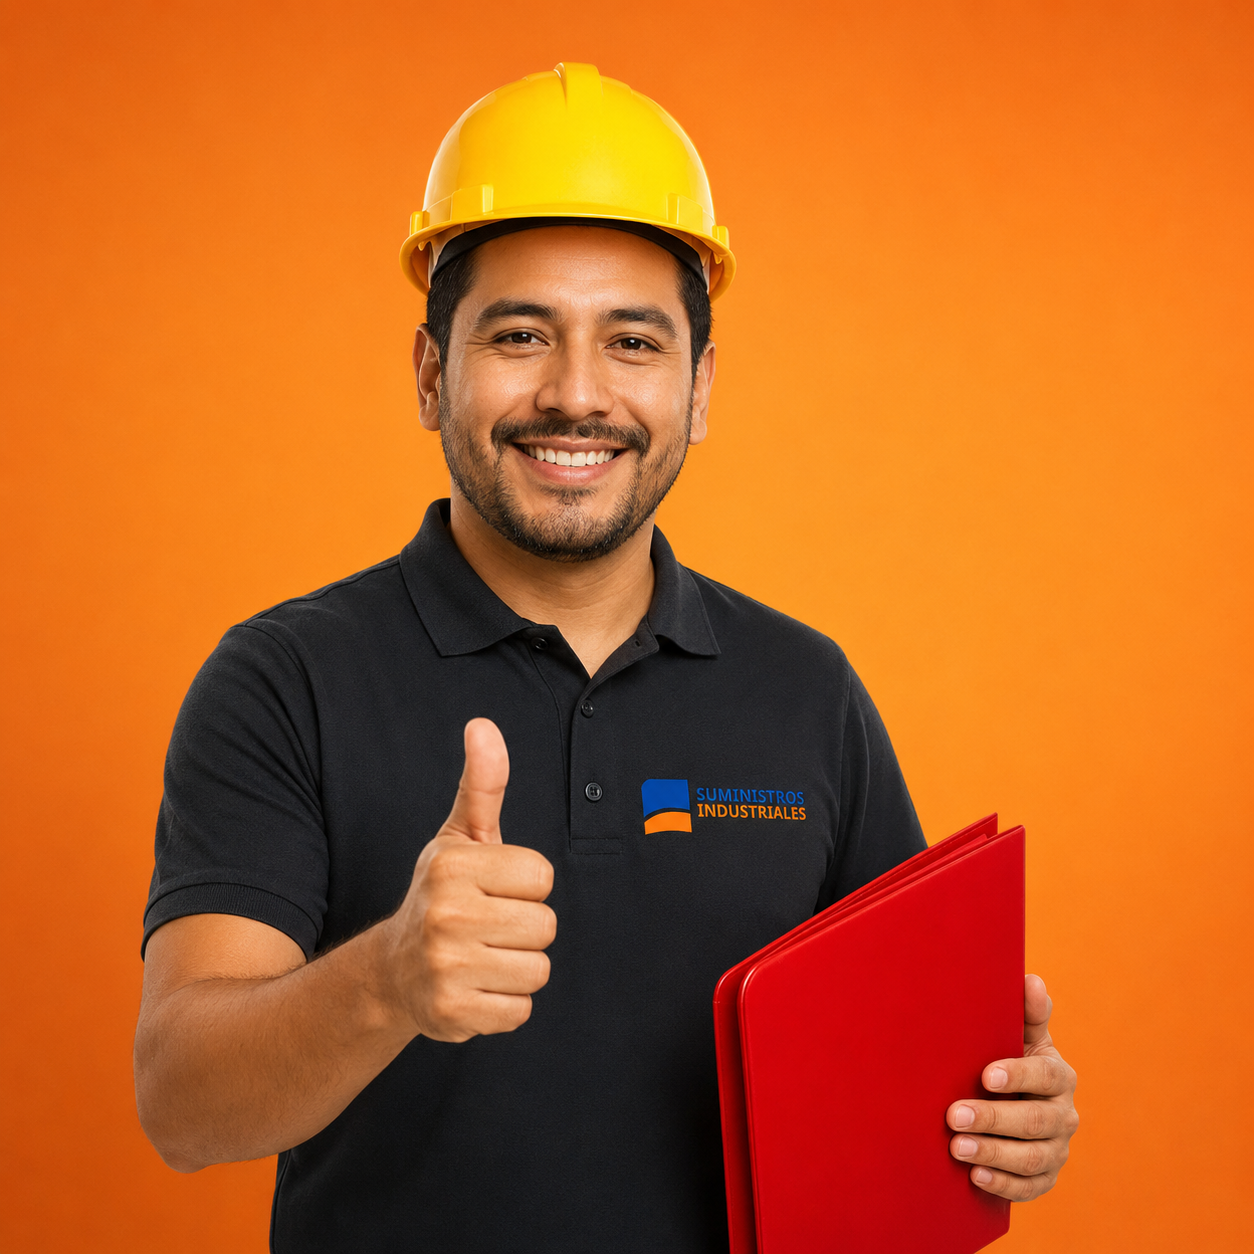
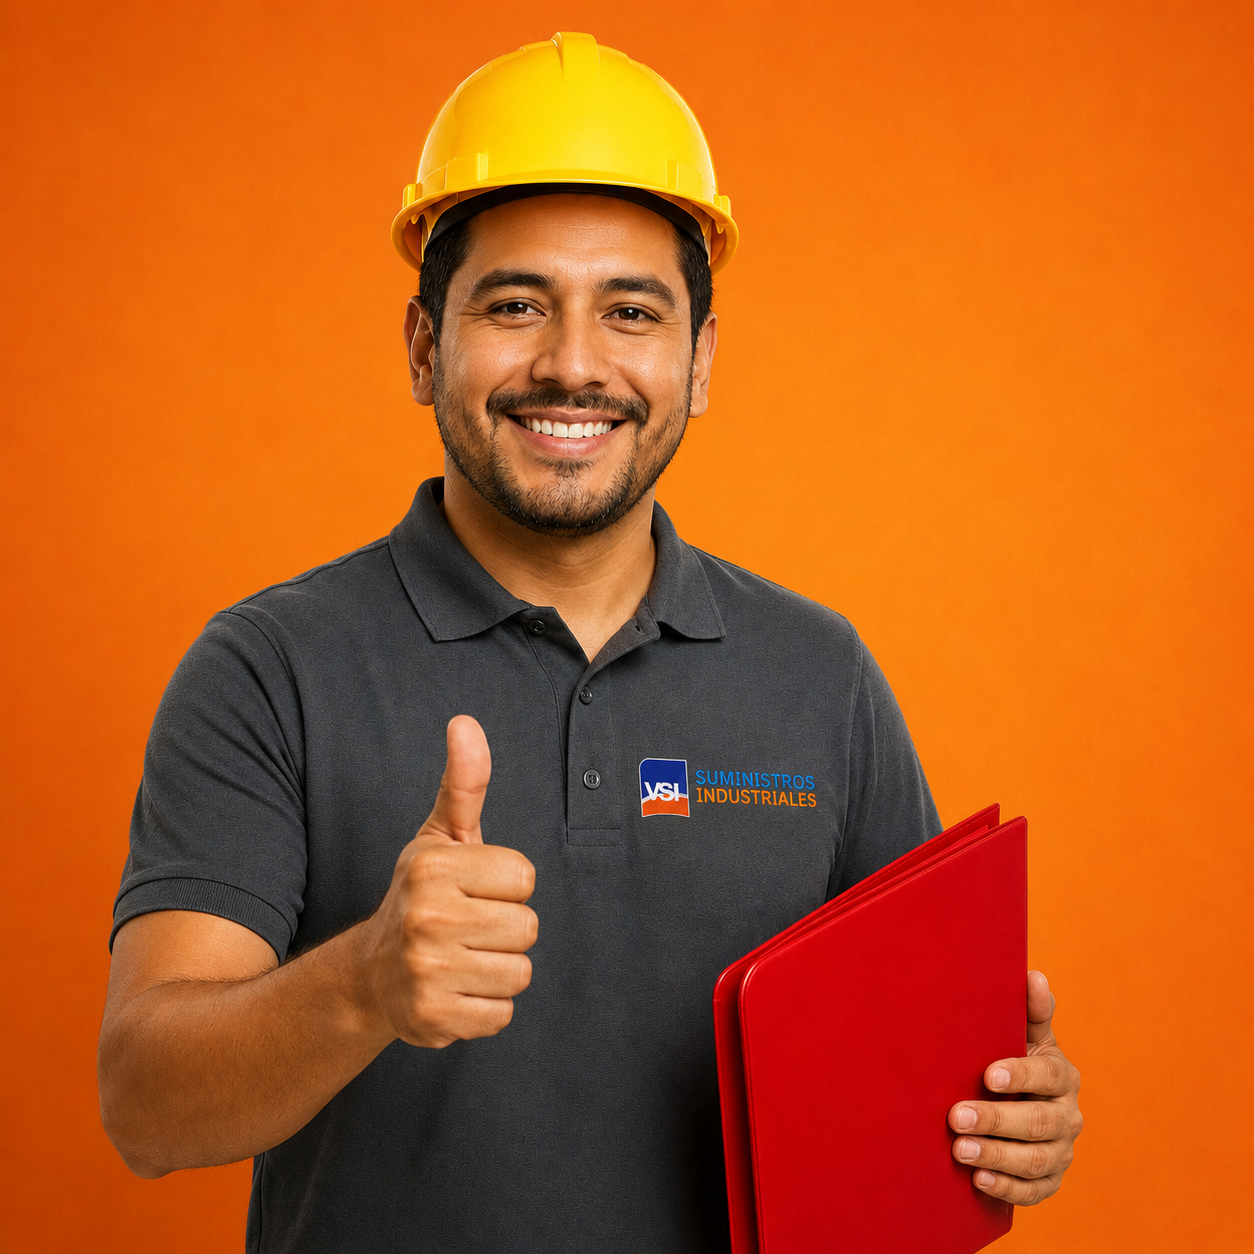
Actualizar imágenes y estilos en la página principal y contenido

diff --git a/app/page.tsx b/app/page.tsx
@@ -44,16 +44,16 @@ const FILAS_SERVICIOS = [
   {
     n: 2,
     grid: "grid grid-cols-1 gap-5",
-    alto: "h-[500px] w1024:h-[400px] w760:h-[320px]",
+    alto: "h-[430px] w1024:h-[400px] w760:h-[320px]",
     grad:
-      "bg-[linear-gradient(180deg,rgba(5,43,89,.06)_0%,rgba(5,43,89,.38)_46%,rgba(5,43,89,.95)_100%)]",
+      "bg-[linear-gradient(180deg,rgba(5,43,89,.06)_0%,rgba(5,43,89,.38)_25%,rgba(5,43,89,.95)_100%)]",
   },
   {
     n: 3,
     grid: "grid grid-cols-3 gap-5 w760:grid-cols-1",
-    alto: "h-[700px] w1024:h-[480px] w760:h-[400px]",
+    alto: "h-[530px] w1024:h-[480px] w760:h-[400px]",
     grad:
-      "bg-[linear-gradient(180deg,rgba(5,43,89,.05)_0%,rgba(5,43,89,.26)_48%,rgba(5,43,89,.95)_100%)]",
+      "bg-[linear-gradient(180deg,rgba(5,43,89,.05)_0%,rgba(5,43,89,.26)_22%,rgba(5,43,89,.95)_100%)]",
   },
 ] as const;
 
@@ -945,7 +945,7 @@ export default function Home() {
                         <Ph src={s.imagen} alt={s.imagenAlt} dark />
                         <div className={`pointer-events-none absolute inset-0 ${fila.grad}`} />
                         <div className="pointer-events-none absolute bottom-[26px] left-7 right-7">
-                          <h3 className="text-[clamp(21px,2.4vw,27px)] leading-[1.08] text-white [text-shadow:0_2px_14px_rgba(0,0,0,.45)]">
+                          <h3 className="text-[clamp(21px,2.4vw,27px)] leading-[1.08] text-white [text-shadow:0_2px_14px_rgba(0,0,0,.45)] uppercase">
                             {s.titulo}
                           </h3>
                           <span className="mt-4 inline-flex items-center gap-[9px] rounded-full bg-naranja px-5 py-[11px] text-[14px] font-bold text-white">
@@ -1015,7 +1015,7 @@ export default function Home() {
         {/* ------------------------ cotiza en 1 minuto ----------------------- */}
         <section
           id="contacto"
-          className="relative overflow-hidden bg-[linear-gradient(105deg,#052B59_0%,#083B7A_65%,#0A4788_100%)]"
+          className="relative overflow-hidden bg-[#052B59] bg-[url('/extras/cotizar.png')] bg-cover bg-center bg-no-repeat"
         >
           <div className="pointer-events-none absolute -right-[140px] -top-[140px] h-[560px] w-[560px] rounded-full bg-[radial-gradient(circle,rgba(228,122,36,.18),transparent_62%)]" />
           <div className="relative mx-auto grid max-w-page grid-cols-[minmax(0,0.85fr)_minmax(0,1.15fr)] items-center gap-12 px-6 py-[clamp(48px,6vw,70px)] w1024:grid-cols-1 w1024:gap-[34px]">
